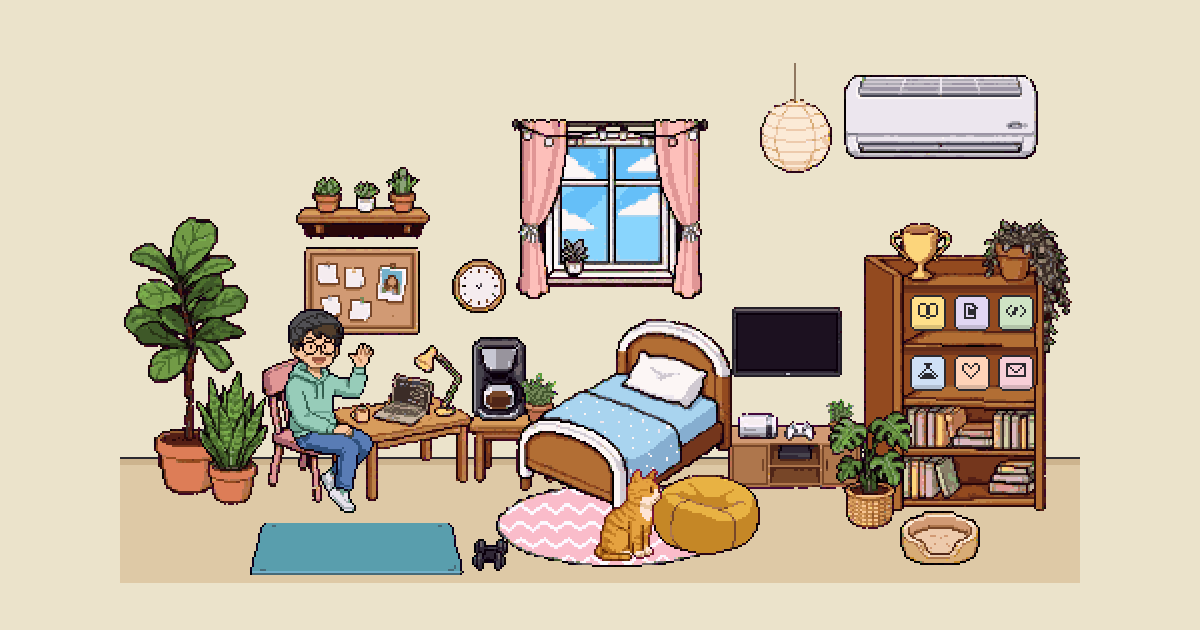
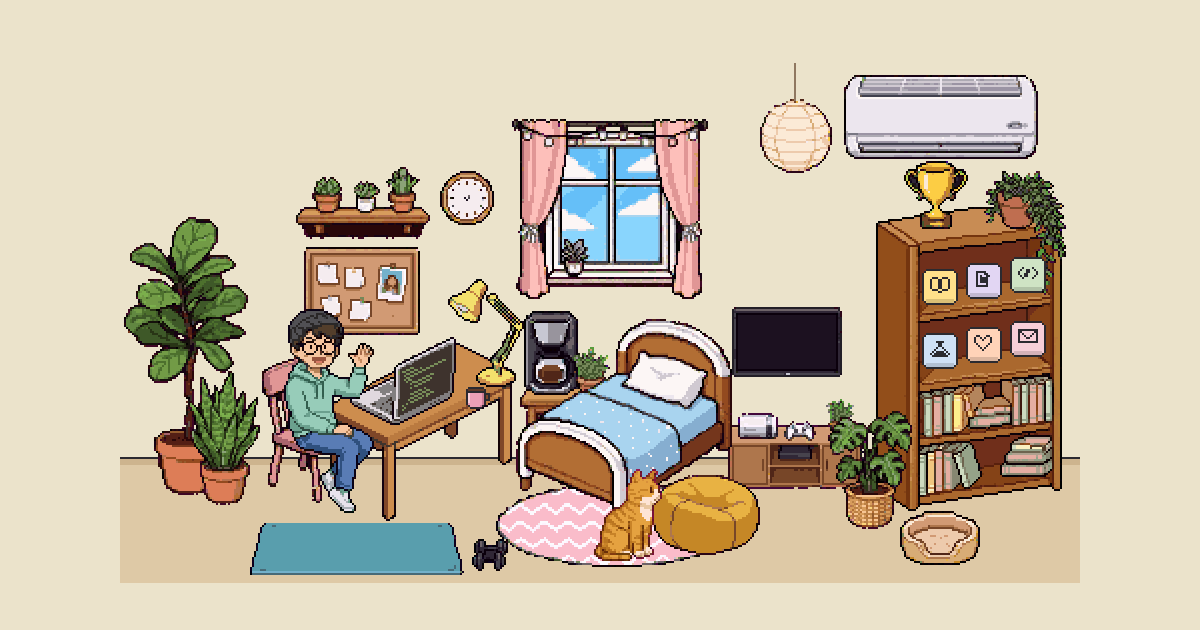
home: a desk that sits across him, and a proper walk
The desk ran away from him with its short end at his chair. A new one lies across
his front, with the laptop, lamp and mug as their own sprites. The bookshelf is
an empty piece now with the trophy, plant and icon boxes standing on it, the
walk is a full two-legged cycle, and the phone layout opens an aisle by the bed.

diff --git a/sites/home/public/game.js b/sites/home/public/game.js
@@ -96,8 +96,8 @@
     h: 580,
     tall: true,
     offs: {
-      ac: [-356, -4], lantern: [-94, 0], window: [-192, 28], clock: [-58, 8], cork: [-77, 58], shelf: [-208, 48],
-      coffee: [-170, 56], desk: [-2, 168], bed: [-46, 210], bag: [-200, 62], mat: [-52, 180], succs: [8, 90]
+      ac: [-356, -4], lantern: [-94, 0], window: [-192, 28], clock: [-50, 40], cork: [-77, 58], shelf: [-208, 48],
+      coffee: [-196, 69], desk: [-12, 168], plants: [-2, 168], snake: [-16, 168], bed: [-36, 216], bag: [-200, 62], mat: [-52, 180], succs: [8, 90]
     }
   };
   let L = WIDE;
@@ -109,20 +109,20 @@
 
   // Lights: id, group, x, y, radius
   const LIGHTS = [
-    { id: 'desk', group: 'desk', x: 152, y: 160, r: 74, c: '255,206,130' },
+    { id: 'desk', group: 'desk', x: 177, y: 128, r: 78, c: '255,206,130' },
     { id: 'lantern', group: 'lantern', x: 338, y: 46, r: 100, c: '255,224,170' },
     { id: 'tv', group: 'shelf', x: 333, y: 150, r: 64, c: '150,190,255' }
   ];
   const STRING = [[202, 46], [214, 46], [240, 46], [250, 46], [267, 46], [285, 45]];
   const BULB_COLORS = ['#FFD36B', '#F4A9B8', '#9FE0B8', '#FFD36B', '#8FC8F0', '#F4A9B8'];
   const GLASS = { x: 220, y: 50, w: 55, h: 60 };
-  const CLOCK = { x: 179, y: 119 };
+  const CLOCK = { x: 173, y: 75 };
   const SCREEN = { x: 309, y: 133, w: 49, h: 28 };
   const VENT = { x: 372, y: 52, w: 78 };
 
   // Spots dev walks to (feet position)
   const SPOTS = {
-    coffee: { group: 'coffee', x: 168, y: 244, tall: [62, 300], line: 'refill time' },
+    coffee: { group: 'coffee', x: 194, y: 242, tall: [62, 300], line: 'refill time' },
     window: { group: 'bed', x: 196, y: 236, tall: [150, 310], line: 'look at that sky' },
     game: { group: 'bag', x: 296, y: 258 },
     mat: { group: 'mat', x: 110, y: 250 },
@@ -133,19 +133,20 @@
     tall: [[210, 330], [60, 470], [244, 345], [130, 460]]
   };
 
-  // Every piece of furniture is its own sprite in room-kit-b.png: [x, y, w, h]
+  // Every piece of furniture is its own sprite in room-kit-c.png: [x, y, w, h]
   const KIT = {
-    shelf: [0, 0, 104, 146], fig: [105, 0, 62, 139], bed: [168, 0, 108, 104],
-    bedSleep: [277, 0, 108, 104], window: [386, 0, 98, 90], desk: [0, 147, 72, 78],
-    chair: [73, 147, 47, 73], snake: [121, 147, 36, 67], monstera: [158, 147, 42, 59],
-    lantern: [201, 147, 36, 55], console: [238, 147, 68, 49], consolePlain: [307, 147, 68, 49],
-    cork: [376, 147, 58, 44], ac: [0, 226, 97, 42], rug: [98, 226, 121, 42],
-    coffee: [220, 226, 27, 42], bag: [248, 226, 54, 40], table: [303, 226, 47, 37],
-    succs: [351, 226, 67, 36], tv: [419, 226, 55, 35], clock: [475, 226, 27, 27],
-    catbed: [0, 269, 40, 27], herb: [41, 269, 19, 26], mat: [61, 269, 108, 26],
-    icon0: [170, 269, 18, 18], icon1: [189, 269, 18, 18], icon2: [208, 269, 18, 18],
-    icon3: [227, 269, 18, 18], icon4: [246, 269, 18, 18], icon5: [265, 269, 18, 18],
-    dumbbells: [284, 269, 18, 16]
+    shelf: [0, 0, 93, 155], fig: [94, 0, 62, 139], bed: [157, 0, 108, 104],
+    bedSleep: [266, 0, 108, 104], window: [375, 0, 98, 90], desk: [0, 156, 95, 89],
+    chair: [96, 156, 47, 73], snake: [144, 156, 36, 67], pothos: [181, 156, 41, 62],
+    monstera: [223, 156, 42, 59], lantern: [266, 156, 36, 55], lamp: [303, 156, 38, 54],
+    console: [342, 156, 68, 49], consolePlain: [411, 156, 68, 49], laptop: [0, 246, 53, 44],
+    cork: [54, 246, 58, 44], ac: [113, 246, 97, 42], rug: [211, 246, 121, 42],
+    coffee: [333, 246, 27, 42], bag: [361, 246, 54, 40], table: [416, 246, 47, 37],
+    succs: [0, 291, 67, 36], tv: [68, 291, 55, 35], trophy: [124, 291, 32, 34],
+    clock: [157, 291, 27, 27], catbed: [185, 291, 40, 27], herb: [226, 291, 19, 26],
+    mat: [246, 291, 108, 26], icon0: [355, 291, 18, 18], icon1: [374, 291, 18, 18],
+    icon2: [393, 291, 18, 18], icon3: [412, 291, 18, 18], icon4: [431, 291, 18, 18],
+    icon5: [450, 291, 18, 18], dumbbells: [469, 291, 18, 16], mug: [488, 291, 14, 11]
   };
 
   // The room, placed by hand. x, y are in the wide room; the tall room is the same
@@ -157,33 +158,38 @@
     { id: 'ac', sprite: 'ac', group: 'ac', x: 362, y: 14 },
     { id: 'succs', sprite: 'succs', group: 'succs', x: 88, y: 60 },
     { id: 'cork', sprite: 'cork', group: 'cork', x: 92, y: 100 },
-    { id: 'clock', sprite: 'clock', group: 'clock', x: 166, y: 106 },
+    { id: 'clock', sprite: 'clock', group: 'clock', x: 160, y: 62 },
     { id: 'lantern', sprite: 'lantern', group: 'lantern', x: 320, y: 8 },
     { id: 'tv', sprite: 'tv', group: 'shelf', x: 306, y: 130 },
     { id: 'rug', sprite: 'rug', group: 'bed', x: 188, y: 218 },
     { id: 'mat', sprite: 'mat', group: 'mat', x: 64, y: 238 },
     { id: 'dumbbells', sprite: 'dumbbells', group: 'mat', x: 176, y: 246 },
-    { id: 'fig', sprite: 'fig', group: 'desk', x: 2, y: 85, base: 224 },
-    { id: 'snake', sprite: 'snake', group: 'desk', x: 38, y: 162, base: 229 },
-    { id: 'desk', sprite: 'desk', group: 'desk', x: 104, y: 149, base: 227 },
-    { id: 'table', sprite: 'table', group: 'coffee', x: 174, y: 181, base: 218 },
-    { id: 'coffee', sprite: 'coffee', group: 'coffee', x: 176, y: 145, base: 218.5 },
-    { id: 'herb', sprite: 'herb', group: 'coffee', x: 200, y: 163, base: 218.5 },
+    { id: 'fig', sprite: 'fig', group: 'plants', x: 2, y: 85, base: 224 },
+    { id: 'snake', sprite: 'snake', group: 'snake', x: 34, y: 162, base: 229 },
+    { id: 'desk', sprite: 'desk', group: 'desk', x: 103, y: 148, base: 237 },
+    { id: 'laptop', sprite: 'laptop', group: 'desk', x: 115, y: 145, base: 237.1 },
+    { id: 'lamp', sprite: 'lamp', group: 'desk', x: 164, y: 116, base: 237.1 },
+    { id: 'mug', sprite: 'mug', group: 'desk', x: 172, y: 170, base: 237.2 },
+    { id: 'table', sprite: 'table', group: 'coffee', x: 200, y: 168, base: 205 },
+    { id: 'coffee', sprite: 'coffee', group: 'coffee', x: 202, y: 132, base: 205.5 },
+    { id: 'herb', sprite: 'herb', group: 'coffee', x: 226, y: 150, base: 205.5 },
     { id: 'bed', sprite: 'bed', group: 'bed', x: 198, y: 136, base: 240 },
     { id: 'bag', sprite: 'bag', group: 'bag', x: 266, y: 214, base: 254 },
     { id: 'console', sprite: 'console', group: 'shelf', x: 304, y: 176, base: 224 },
-    { id: 'shelf', sprite: 'shelf', group: 'shelf', x: 372, y: 86, base: 232 },
+    { id: 'shelf', sprite: 'shelf', group: 'shelf', x: 378, y: 77, base: 232 },
+    { id: 'trophy', sprite: 'trophy', group: 'shelf', x: 392, y: 57, base: 232.2 },
+    { id: 'pothos', sprite: 'pothos', group: 'shelf', x: 432, y: 62, base: 232.2 },
     { id: 'monstera', sprite: 'monstera', group: 'shelf', x: 354, y: 182, base: 241 },
     { id: 'catbed', sprite: 'catbed', group: 'shelf', x: 390, y: 232, base: 259 }
   ];
-  // The six things on the shelf, standing on its boards in two straight rows
-  [[395, 124], [417, 124], [439, 124], [395, 154], [417, 154], [439, 154]].forEach(([x, y], i) => {
+  // The six things on the shelf. The boards run slightly uphill to the right, and so do they.
+  [[401, 111], [423, 108], [445, 105], [401, 143], [423, 140], [445, 137]].forEach(([x, y], i) => {
     ROOM.push({ id: 'item' + i, sprite: 'icon' + i, group: 'shelf', x, y, base: 232.5 });
   });
   const ROOM_BY_ID = {};
   ROOM.forEach((r) => { ROOM_BY_ID[r.id] = r; });
   const LANE = 256; // in the wide room everyone walks along the open floor in front of everything
-  const AISLE = { x: 186, top: 392, bottom: 414, split: 395 }; // the tall room's gap between desk and bed
+  const AISLE = { x: 198, top: 392, bottom: 414, split: 395 }; // the tall room's gap between desk and bed
 
   // The chair is its own sprite: it slides out when he gets up and back when he sits
   const chair = { t: 0, to: 0, delay: 0 };
@@ -221,17 +227,17 @@
   const THINGS = [
     { id: 'ac', label: 'air conditioner', group: 'ac', x: 362, y: 14, w: 97, h: 42, act: () => toggleAC() },
     { id: 'lantern', label: 'paper lantern', group: 'lantern', x: 320, y: 12, w: 36, h: 52, act: () => toggleLamp('lantern') },
-    { id: 'lamp', of: 'desk', label: 'desk lamp', group: 'desk', x: 144, y: 149, w: 30, h: 26, act: () => toggleLamp('desk') },
+    { id: 'lamp', label: 'desk lamp', group: 'desk', x: 164, y: 116, w: 38, h: 54, act: () => toggleLamp('desk') },
     { id: 'window', label: 'window', group: 'window', x: 196, y: 36, w: 98, h: 90, act: () => sayDev(clockLine('it’s {t} here in Saigon')) },
-    { id: 'clock', label: 'clock', group: 'clock', x: 166, y: 106, w: 27, h: 27, act: () => sayDev(clockLine('{t}. should I be sleeping?')) },
+    { id: 'clock', label: 'clock', group: 'clock', x: 160, y: 62, w: 27, h: 27, act: () => sayDev(clockLine('{t}. should I be sleeping?')) },
     { id: 'cork', label: 'cork board', group: 'cork', x: 92, y: 100, w: 58, h: 44, say: 'todo: fewer todos' },
     { id: 'succs', label: 'little succulents', group: 'succs', x: 88, y: 60, w: 67, h: 36, say: 'the only ones I never forget' },
-    { id: 'fig', label: 'fig tree', group: 'desk', x: 2, y: 85, w: 62, h: 110, say: 'taller than my last app' },
-    { id: 'snake', label: 'snake plant', group: 'desk', x: 38, y: 165, w: 36, h: 62, say: 'impossible to kill. tested.' },
-    { id: 'laptop', of: 'desk', label: 'laptop', group: 'desk', x: 126, y: 163, w: 32, h: 24, say: 'no peeking, it’s full of bugs' },
-    { id: 'mug', of: 'desk', label: 'mug', group: 'desk', x: 114, y: 177, w: 12, h: 12, act: () => sayDev('coffee number ' + (3 + Math.floor(Math.random() * 3))) },
-    { id: 'coffee', label: 'coffee machine', group: 'coffee', x: 176, y: 145, w: 27, h: 42, act: () => invite(() => visit(SPOTS.coffee), 'the real senior engineer') },
-    { id: 'herb', label: 'little herb', group: 'coffee', x: 200, y: 163, w: 19, h: 26, say: 'I forgot to water it again' },
+    { id: 'fig', label: 'fig tree', group: 'plants', x: 2, y: 85, w: 62, h: 110, say: 'taller than my last app' },
+    { id: 'snake', label: 'snake plant', group: 'snake', x: 34, y: 165, w: 36, h: 62, say: 'impossible to kill. tested.' },
+    { id: 'laptop', label: 'laptop', group: 'desk', x: 115, y: 145, w: 53, h: 44, say: 'no peeking, it’s full of bugs' },
+    { id: 'mug', label: 'mug', group: 'desk', x: 172, y: 170, w: 16, h: 16, act: () => sayDev('coffee number ' + (3 + Math.floor(Math.random() * 3))) },
+    { id: 'coffee', label: 'coffee machine', group: 'coffee', x: 202, y: 132, w: 27, h: 42, act: () => invite(() => visit(SPOTS.coffee), 'the real senior engineer') },
+    { id: 'herb', label: 'little herb', group: 'coffee', x: 226, y: 150, w: 19, h: 26, say: 'I forgot to water it again' },
     { id: 'bed', label: 'bed', group: 'bed', x: 200, y: 140, w: 104, h: 96, act: () => invite(nap, 'not yet. one more commit.') },
     { id: 'tv', label: 'TV', group: 'shelf', x: 306, y: 130, w: 55, h: 35, act: () => toggleTV() },
     { id: 'console', label: 'game console', group: 'shelf', x: 304, y: 176, w: 68, h: 49, say: 'research. for work.' },
@@ -239,11 +245,11 @@
     { id: 'mat', label: 'exercise mat', group: 'mat', x: 64, y: 238, w: 108, h: 26, act: () => invite(doPushUps, 'I use this. sometimes.') },
     { id: 'monstera', label: 'monstera', group: 'shelf', x: 354, y: 182, w: 42, h: 59, say: 'she gets the best light' },
     { id: 'catbed', label: 'cat bed', group: 'shelf', x: 390, y: 232, w: 40, h: 27, say: 'never used. he has my desk chair.' },
-    { id: 'trophy', of: 'shelf', label: 'trophy', group: 'shelf', x: 386, y: 90, w: 32, h: 30, say: 'I bought it myself' },
-    { id: 'pothos', of: 'shelf', label: 'pothos', group: 'shelf', x: 432, y: 88, w: 44, h: 64, say: 'it’s slowly taking the shelf' },
-    { id: 'books', of: 'shelf', label: 'books', group: 'shelf', x: 392, y: 178, w: 72, h: 50, say: 'read half of them. honest.' }
+    { id: 'trophy', label: 'trophy', group: 'shelf', x: 392, y: 57, w: 32, h: 34, say: 'I bought it myself' },
+    { id: 'pothos', label: 'pothos', group: 'shelf', x: 432, y: 62, w: 41, h: 62, say: 'it’s slowly taking the shelf' },
+    { id: 'books', of: 'shelf', label: 'books', group: 'shelf', x: 400, y: 166, w: 68, h: 58, say: 'read half of them. honest.' }
   ];
-  [[394, 123], [416, 123], [438, 123], [394, 153], [416, 153], [438, 153]].forEach((p, i) => {
+  [[400, 110], [422, 107], [444, 104], [400, 142], [422, 139], [444, 136]].forEach((p, i) => {
     THINGS.push({ id: 'item' + i, label: ITEMS[i].name, group: 'shelf', x: p[0], y: p[1], w: 20, h: 20, act: () => openCard(i) });
   });
 
@@ -617,7 +623,7 @@
     type: ['dev-keys', 120, 120],
     wave: ['dev-wave', 120, 120],
     stand: ['dev-stand', 120, 156],
-    walk: ['dev-walk', 120, 156],
+    walk: ['dev-steps', 120, 156],
     back: ['dev-back', 96, 96],
     push: ['dev-push', 144, 72],
     catIdle: ['cat-idle', 56, 56],
@@ -769,7 +775,7 @@
     dev.path = route([dev.x + 58, dev.y + 146], [x + 58, y + 146]).map(([fx, fy]) => [fx - 58, fy - 146]);
     dev.then = then;
     nextLeg();
-    play(dev, 'walk', seq(0, 4), 10, true);
+    play(dev, 'walk', seq(0, 7), 11, true);
   }
 
   function nextLeg() {
@@ -1369,7 +1375,7 @@
   toLoad = 3 + Object.keys(SHEETS).length;
   const fonts = ['400 18px "Pixelify Sans"', '600 18px "Pixelify Sans"'].map((f) =>
     (document.fonts ? document.fonts.load(f) : Promise.resolve()).catch(() => {}).then(loadStep));
-  const assets = fonts.concat([load('kit', 'room-kit-b')]);
+  const assets = fonts.concat([load('kit', 'room-kit-c')]);
   Object.keys(SHEETS).forEach((k) => assets.push(load(k, SHEETS[k][0])));
   const atLeast = new Promise((r) => setTimeout(r, 700));
   Promise.all(assets.concat(atLeast)).then(() => {

diff --git a/CLAUDE.md b/CLAUDE.md
@@ -19,7 +19,7 @@ repos (Bookmuse: `../bookmuse/`, read its `ROADMAP.md`; this repo's move is `spe
   (the `bookmuse_web` dashboard), not on the landing. The landing's Sign in buttons link straight to that dashboard.
 - Bookmuse's privacy policy and deletion page are linked from the apps, App Store Connect, Play Console, Google and Dropbox:
   when a Bookmuse feature changes what data is kept or sent, update en/vi/es together.
-- **Home's room** (`sites/home/public/`) is a pixel-art canvas game (`index.html`, `style.css`, `game.js`, no libraries): a room you click around in, on Vietnam time. There is no background picture: every piece of furniture is a sprite in `public/assets/room/room-kit-b.png`, placed by hand in `ROOM` in `game.js` and drawn back to front by where it meets the floor. Wall, floor, sunlight, lamps and night are drawn in code. Wide and tall layouts move the same sprites by group. Assets are cached for 7 days, so give a replaced image a new name. `?hour=3` pins the clock for testing.
+- **Home's room** (`sites/home/public/`) is a pixel-art canvas game (`index.html`, `style.css`, `game.js`, no libraries): a room you click around in, on Vietnam time. There is no background picture: every piece of furniture is a sprite in `public/assets/room/room-kit-c.png`, placed by hand in `ROOM` in `game.js` and drawn back to front by where it meets the floor. Wall, floor, sunlight, lamps and night are drawn in code. Wide and tall layouts move the same sprites by group. Assets are cached for 7 days, so give a replaced image a new name. `?hour=3` pins the clock for testing.
 - Run locally: `npm ci`, then `npm run dev:bookmuse` (http://localhost:8788) or `npm run dev:home` (http://localhost:8790).
 - **Deploy:** push a tag `<site>-vX.Y.Z` (`bookmuse-v1.0.0`, `home-v1.0.0`); `.github/workflows/deploy.yml` runs
   `wrangler deploy` for that site. Pushing to `main` never deploys. Never push a tag unless the owner asks.
